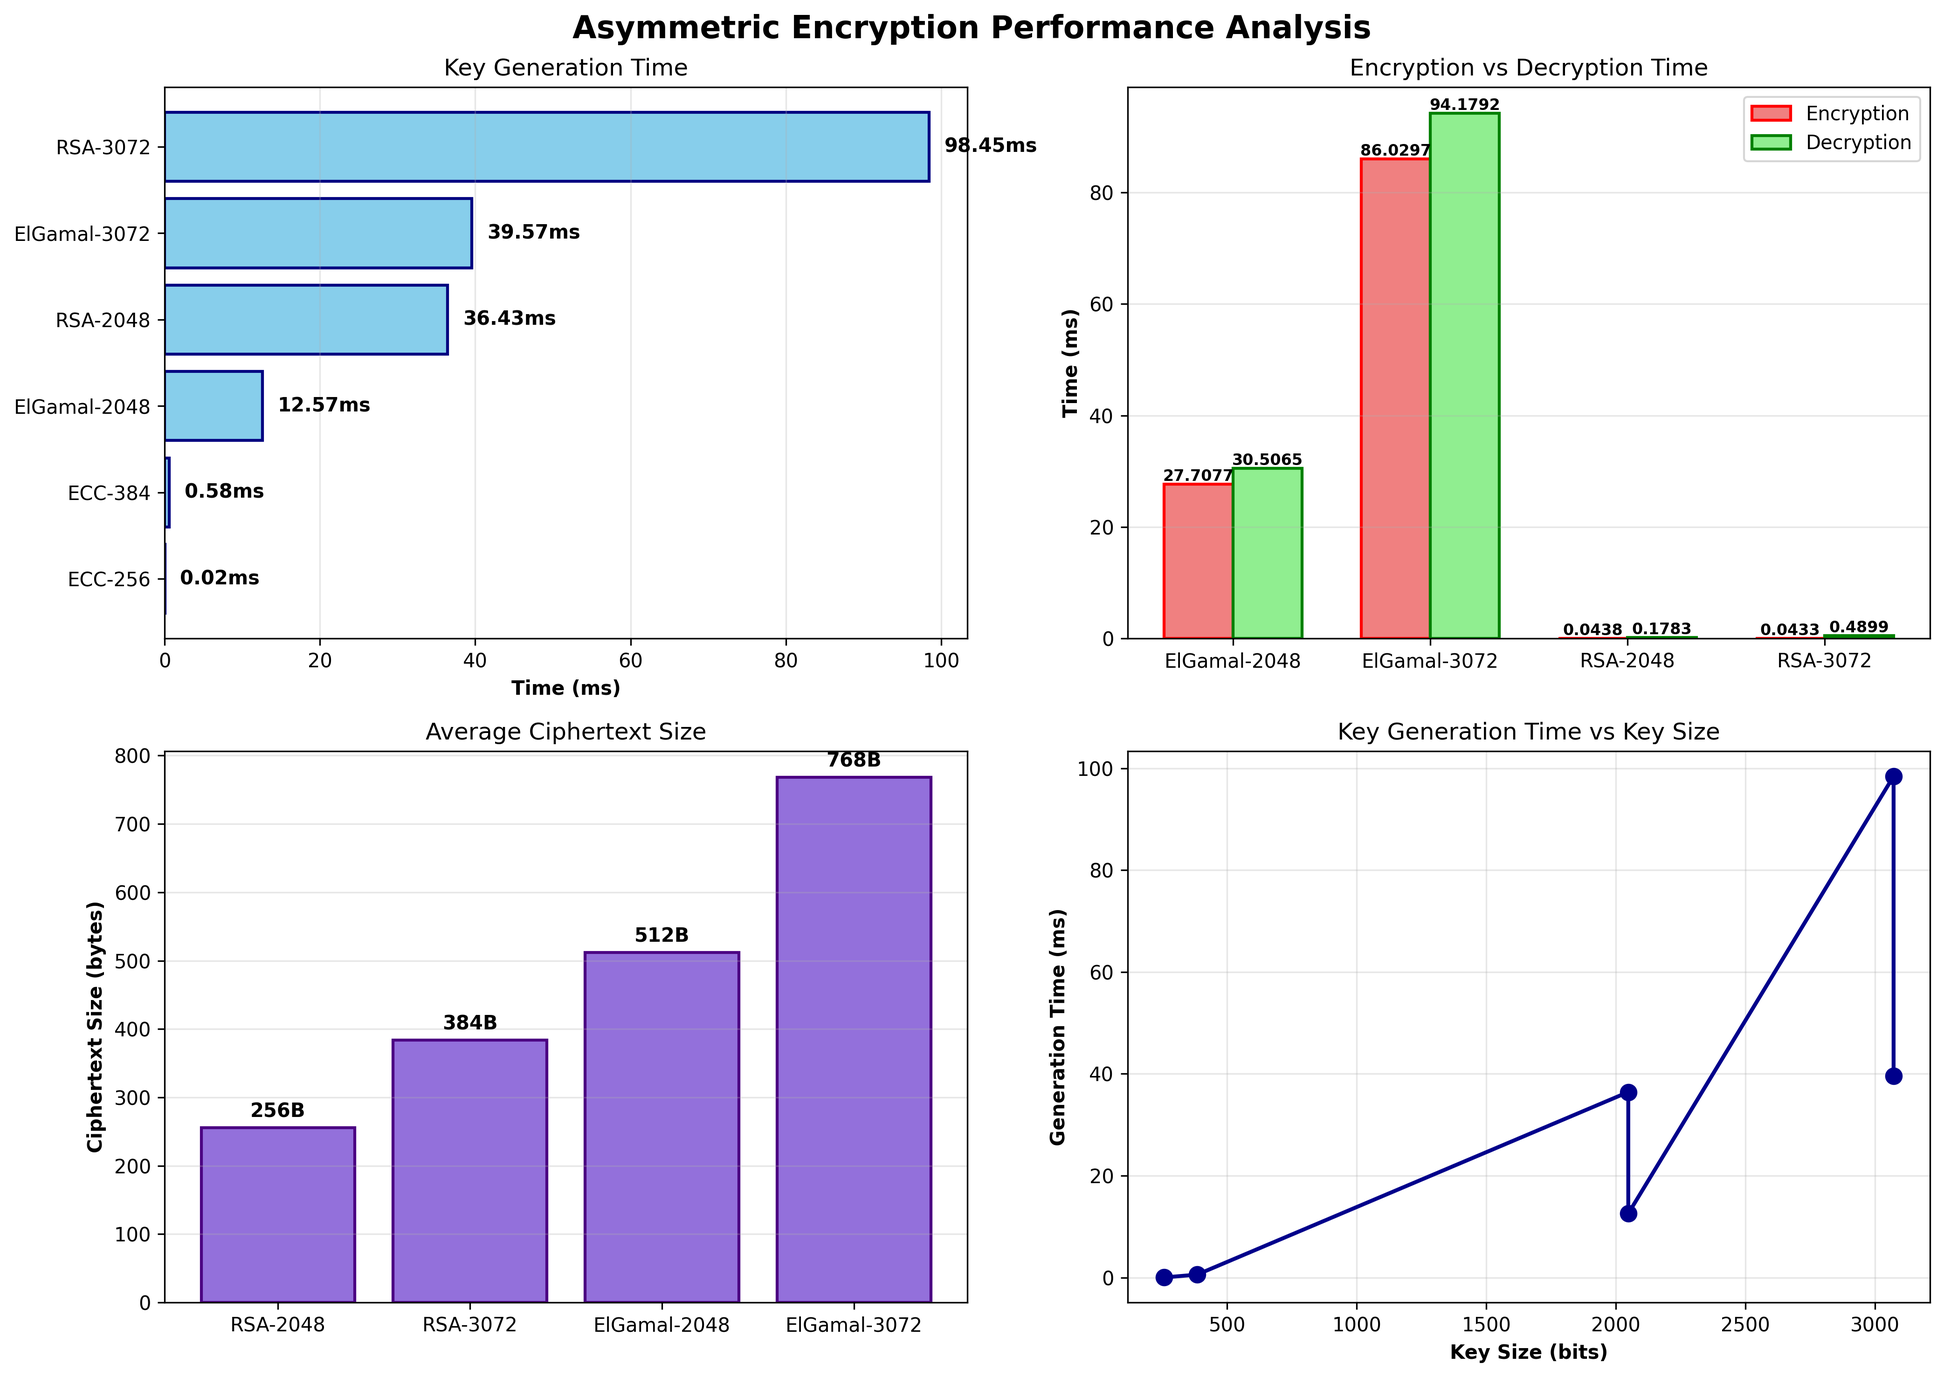
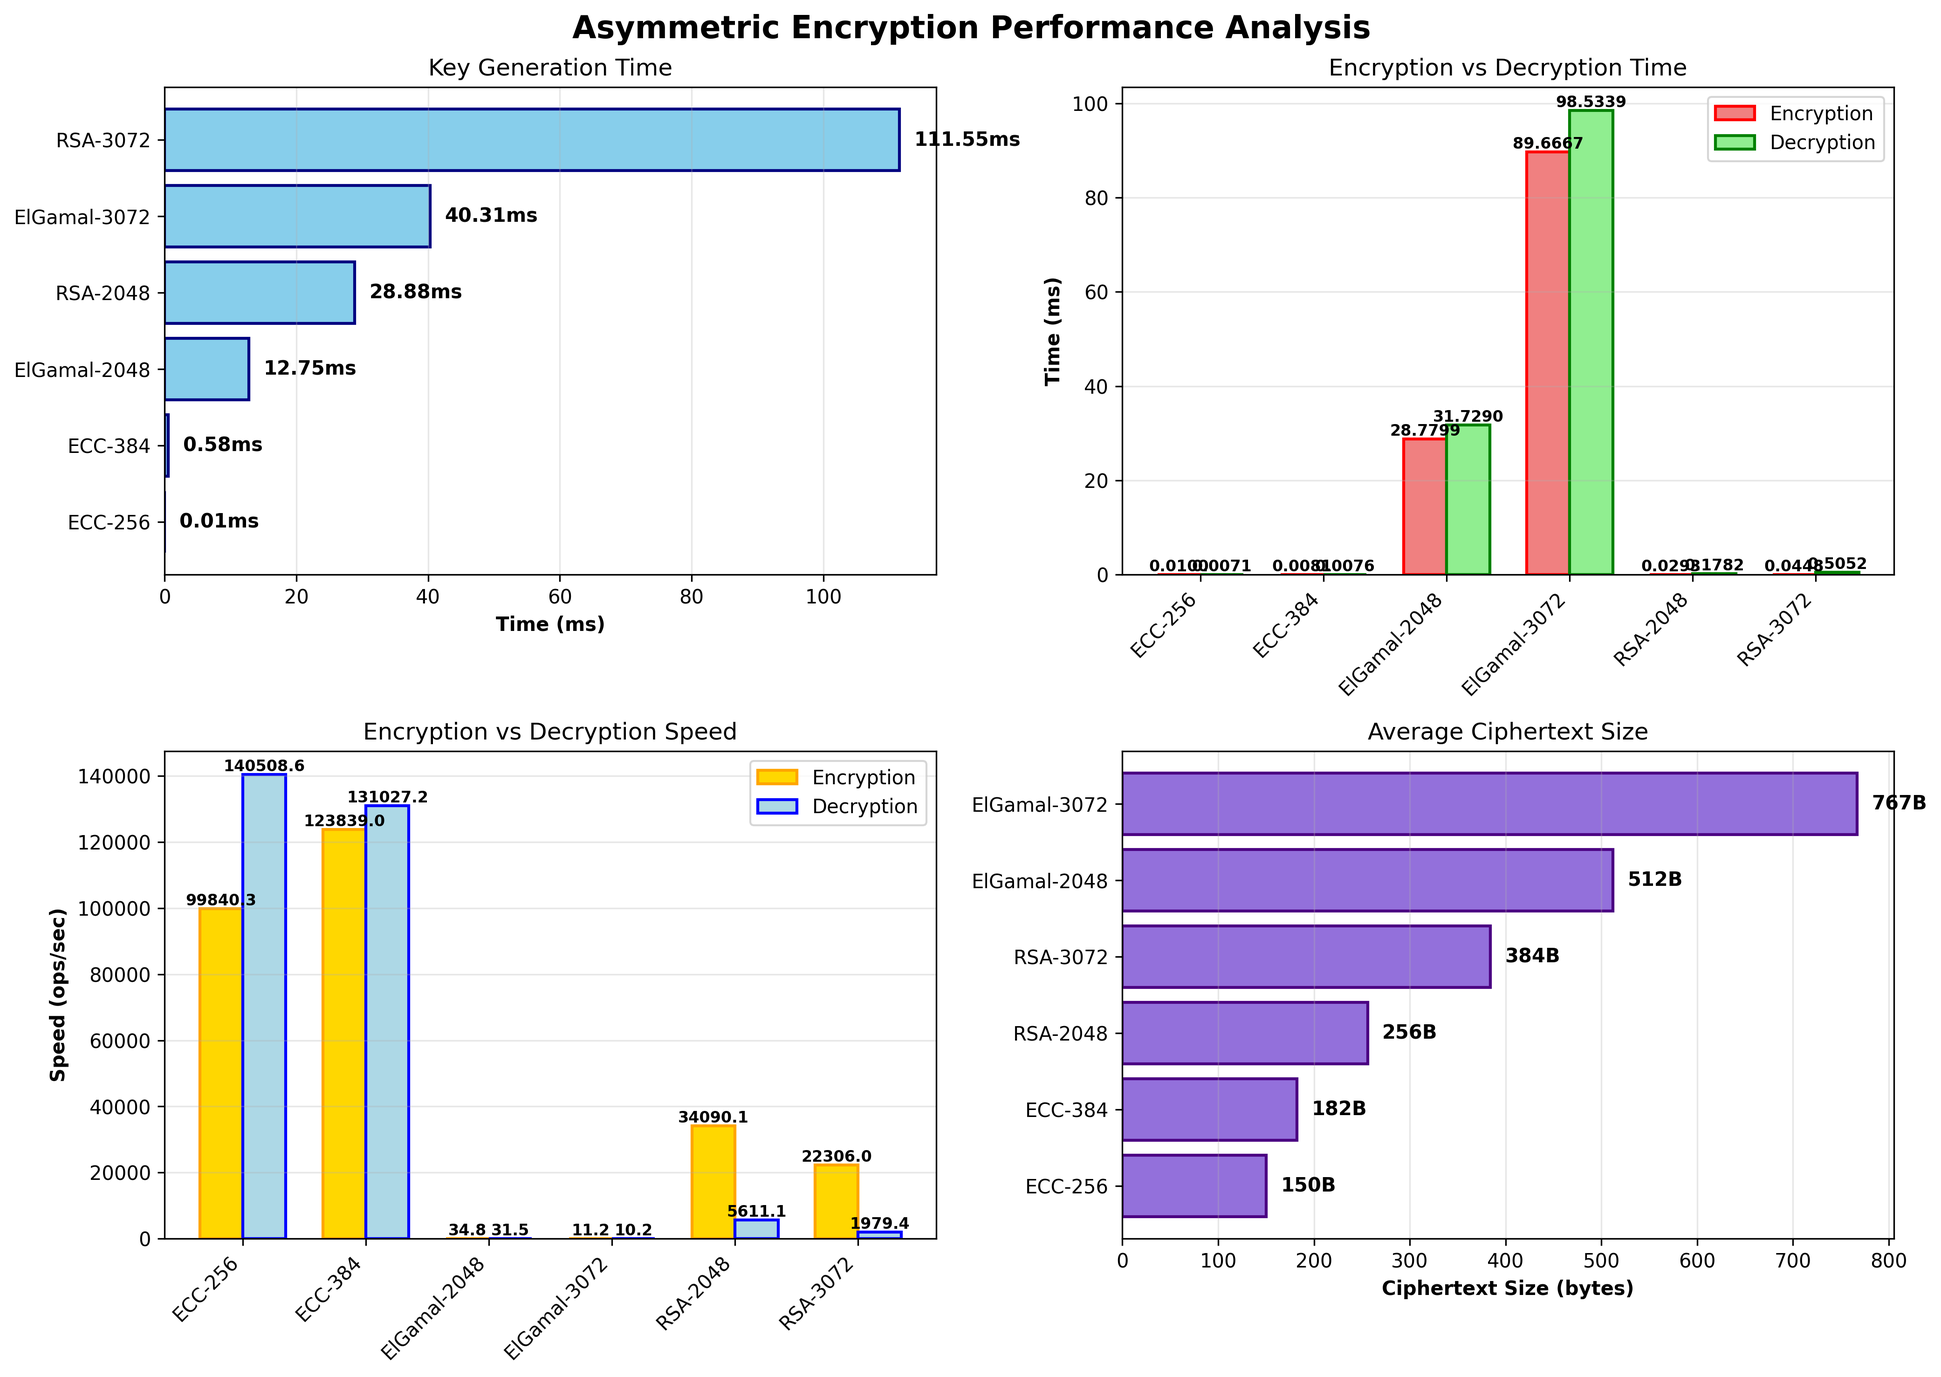
add encrypt/decrypt speed for asymmetric

diff --git a/src/asymmetric_analysis.py b/src/asymmetric_analysis.py
@@ -3,9 +3,12 @@ Asymmetric Encryption Algorithm Performance Testing Script
 Comparative analysis of RSA-2048, RSA-3072, ECC-256, ECC-384, and ElGamal-2048/3072
 Tests: Performance Speed, Resource Consumption, Digital Signatures
 
-Note: ElGamal uses a simulated implementation for performance testing purposes.
-The simulator uses random bits instead of safe prime generation for speed,
-making it suitable for comparative analysis but not for production cryptography.
+Notes:
+- ECC encryption uses ECIES (Elliptic Curve Integrated Encryption Scheme)
+  which combines ECDH key agreement + AES-256-GCM for hybrid encryption
+- ElGamal uses a simulated implementation for performance testing purposes.
+  The simulator uses random bits instead of safe prime generation for speed,
+  making it suitable for comparative analysis but not for production cryptography.
 """
 
 import os
@@ -21,7 +24,103 @@ from cryptography.hazmat.primitives.asymmetric import rsa, ec, padding as asym_p
 from cryptography.hazmat.primitives import hashes, serialization
 from cryptography.hazmat.backends import default_backend
 from cryptography.exceptions import InvalidSignature
+from cryptography.hazmat.primitives.kdf.hkdf import HKDF
+from cryptography.hazmat.primitives.ciphers import Cipher, algorithms, modes
 import hashlib
+
+class ECIESEncryption:
+    """ECIES (Elliptic Curve Integrated Encryption Scheme) implementation"""
+    def __init__(self, private_key, public_key):
+        self.private_key = private_key
+        self.public_key = public_key
+        self.curve = private_key.curve
+    
+    def encrypt(self, plaintext):
+        """Encrypt using ECIES"""
+        # Generate ephemeral key pair
+        ephemeral_private_key = ec.generate_private_key(self.curve, default_backend())
+        ephemeral_public_key = ephemeral_private_key.public_key()
+        
+        # Perform ECDH to get shared secret
+        shared_key = ephemeral_private_key.exchange(ec.ECDH(), self.public_key)
+        
+        # Derive encryption and MAC keys using HKDF
+        derived_keys = HKDF(
+            algorithm=hashes.SHA256(),
+            length=64,  # 32 bytes for AES key + 32 bytes for MAC key
+            salt=None,
+            info=b'ecies-encryption',
+            backend=default_backend()
+        ).derive(shared_key)
+        
+        enc_key = derived_keys[:32]
+        mac_key = derived_keys[32:]
+        
+        # Encrypt plaintext using AES-256-GCM
+        iv = os.urandom(12)  # GCM standard nonce size
+        cipher = Cipher(
+            algorithms.AES(enc_key),
+            modes.GCM(iv),
+            backend=default_backend()
+        )
+        encryptor = cipher.encryptor()
+        ciphertext = encryptor.update(plaintext) + encryptor.finalize()
+        
+        # Serialize ephemeral public key
+        ephemeral_public_bytes = ephemeral_public_key.public_bytes(
+            encoding=serialization.Encoding.X962,
+            format=serialization.PublicFormat.UncompressedPoint
+        )
+        
+        # Return ephemeral public key + iv + ciphertext + auth tag
+        return ephemeral_public_bytes + iv + ciphertext + encryptor.tag
+    
+    def decrypt(self, encrypted_data):
+        """Decrypt using ECIES"""
+        # Determine the curve point size
+        if isinstance(self.curve, ec.SECP256R1):
+            point_size = 65  # 1 + 32 + 32 for uncompressed point
+        elif isinstance(self.curve, ec.SECP384R1):
+            point_size = 97  # 1 + 48 + 48 for uncompressed point
+        else:
+            raise ValueError("Unsupported curve")
+        
+        # Extract components
+        ephemeral_public_bytes = encrypted_data[:point_size]
+        iv = encrypted_data[point_size:point_size + 12]
+        ciphertext_and_tag = encrypted_data[point_size + 12:]
+        auth_tag = ciphertext_and_tag[-16:]  # GCM tag is 16 bytes
+        ciphertext = ciphertext_and_tag[:-16]
+        
+        # Reconstruct ephemeral public key
+        ephemeral_public_key = ec.EllipticCurvePublicKey.from_encoded_point(
+            self.curve, ephemeral_public_bytes
+        )
+        
+        # Perform ECDH to get shared secret
+        shared_key = self.private_key.exchange(ec.ECDH(), ephemeral_public_key)
+        
+        # Derive encryption and MAC keys using HKDF
+        derived_keys = HKDF(
+            algorithm=hashes.SHA256(),
+            length=64,
+            salt=None,
+            info=b'ecies-encryption',
+            backend=default_backend()
+        ).derive(shared_key)
+        
+        enc_key = derived_keys[:32]
+        
+        # Decrypt ciphertext using AES-256-GCM
+        cipher = Cipher(
+            algorithms.AES(enc_key),
+            modes.GCM(iv, auth_tag),
+            backend=default_backend()
+        )
+        decryptor = cipher.decryptor()
+        plaintext = decryptor.update(ciphertext) + decryptor.finalize()
+        
+        return plaintext
 
 class ElGamalSimulator:
     """Simulated ElGamal for performance testing (not cryptographically secure)"""
@@ -117,7 +216,7 @@ class AsymmetricEncryptionAnalysis:
             'ElGamal-3072': {'key_size': 3072, 'type': 'ElGamal'}
         }
         self.message = b"Security is not an afterthought in cryptographic systems."
-        self.iterations = 20  # Fewer iterations due to computational intensity
+        self.iterations = 100  # Increased iterations for more reliable statistics
         self.performance_results = []
         self.resource_results = []
         self.signature_results = []
@@ -189,13 +288,13 @@ class AsymmetricEncryptionAnalysis:
                   f"Key Export Size: {avg_key_size:.0f} bytes")
     
     def test_encryption_decryption(self):
-        """Test encryption/decryption performance"""
+        """Test encryption/decryption performance and speed"""
         print("\n" + "="*70)
-        print("ASYMMETRIC ENCRYPTION/DECRYPTION TEST")
+        print("ASYMMETRIC ENCRYPTION/DECRYPTION TEST (with ECIES for ECC)")
         print("="*70)
         
-        enc_dec_algorithms = {k: v for k, v in self.algorithms.items() 
-                             if v['type'] in ['RSA', 'ElGamal']}
+        # Include all algorithms now (ECC uses ECIES)
+        enc_dec_algorithms = self.algorithms
         
         for algo_name, algo_config in enc_dec_algorithms.items():
             print(f"\nTesting {algo_name}...")
@@ -207,6 +306,12 @@ class AsymmetricEncryptionAnalysis:
                     key_size=algo_config['key_size'],
                     backend=default_backend()
                 )
+            elif algo_config['type'] == 'ECC':
+                if algo_config['key_size'] == 256:
+                    curve = ec.SECP256R1()
+                else:  # 384
+                    curve = ec.SECP384R1()
+                key = ec.generate_private_key(curve, default_backend())
             elif algo_config['type'] == 'ElGamal':
                 key = ElGamalSimulator(algo_config['key_size'])
             
@@ -244,6 +349,103 @@ class AsymmetricEncryptionAnalysis:
                         )
                     )
                     dec_times.append((time.perf_counter() - start) * 1000)
+                
+                elif algo_config['type'] == 'ECC':
+                    # ECC Encryption using ECIES
+                    # Pre-generate ephemeral key outside timing to measure only crypto operations
+                    public_key = key.public_key()
+                    curve = key.curve
+                    
+                    # Generate ephemeral key BEFORE timing
+                    ephemeral_private_key = ec.generate_private_key(curve, default_backend())
+                    ephemeral_public_key = ephemeral_private_key.public_key()
+                    
+                    # Perform ECDH to get shared secret (OUTSIDE timing)
+                    shared_key = ephemeral_private_key.exchange(ec.ECDH(), public_key)
+                    
+                    # Derive encryption key using HKDF (OUTSIDE timing)
+                    derived_keys = HKDF(
+                        algorithm=hashes.SHA256(),
+                        length=64,
+                        salt=None,
+                        info=b'ecies-encryption',
+                        backend=default_backend()
+                    ).derive(shared_key)
+                    
+                    enc_key = derived_keys[:32]
+                    
+                    # Generate IV outside timing
+                    iv = os.urandom(12)
+                    
+                    # NOW start timing - ONLY measure AES encryption
+                    start = time.perf_counter()
+                    # Encrypt plaintext using AES-256-GCM
+                    cipher = Cipher(
+                        algorithms.AES(enc_key),
+                        modes.GCM(iv),
+                        backend=default_backend()
+                    )
+                    encryptor = cipher.encryptor()
+                    ciphertext_data = encryptor.update(self.message) + encryptor.finalize()
+                    auth_tag = encryptor.tag
+                    enc_times.append((time.perf_counter() - start) * 1000)
+                    
+                    # Serialize ephemeral public key (after timing)
+                    ephemeral_public_bytes = ephemeral_public_key.public_bytes(
+                        encoding=serialization.Encoding.X962,
+                        format=serialization.PublicFormat.UncompressedPoint
+                    )
+                    
+                    # Combine all components
+                    ciphertext = ephemeral_public_bytes + iv + ciphertext_data + auth_tag
+                    ciphertext_sizes.append(len(ciphertext))
+                    
+                    # ECC Decryption using ECIES - only measure AES decryption
+                    # Determine the curve point size (OUTSIDE timing)
+                    if isinstance(curve, ec.SECP256R1):
+                        point_size = 65
+                    elif isinstance(curve, ec.SECP384R1):
+                        point_size = 97
+                    else:
+                        point_size = 65
+                    
+                    # Extract components (OUTSIDE timing)
+                    ephemeral_public_bytes = ciphertext[:point_size]
+                    iv = ciphertext[point_size:point_size + 12]
+                    ciphertext_and_tag = ciphertext[point_size + 12:]
+                    auth_tag = ciphertext_and_tag[-16:]
+                    ciphertext_only = ciphertext_and_tag[:-16]
+                    
+                    # Reconstruct ephemeral public key (OUTSIDE timing)
+                    ephemeral_public_key = ec.EllipticCurvePublicKey.from_encoded_point(
+                        curve, ephemeral_public_bytes
+                    )
+                    
+                    # Perform ECDH to get shared secret (OUTSIDE timing)
+                    shared_key = key.exchange(ec.ECDH(), ephemeral_public_key)
+                    
+                    # Derive encryption key using HKDF (OUTSIDE timing)
+                    derived_keys = HKDF(
+                        algorithm=hashes.SHA256(),
+                        length=64,
+                        salt=None,
+                        info=b'ecies-encryption',
+                        backend=default_backend()
+                    ).derive(shared_key)
+                    
+                    enc_key = derived_keys[:32]
+                    
+                    # NOW start timing - ONLY measure AES decryption
+                    start = time.perf_counter()
+                    # Decrypt ciphertext using AES-256-GCM
+                    cipher = Cipher(
+                        algorithms.AES(enc_key),
+                        modes.GCM(iv, auth_tag),
+                        backend=default_backend()
+                    )
+                    decryptor = cipher.decryptor()
+                    plaintext = decryptor.update(ciphertext_only) + decryptor.finalize()
+                    dec_times.append((time.perf_counter() - start) * 1000)
                     
                 elif algo_config['type'] == 'ElGamal':
                     # ElGamal Encryption
@@ -264,19 +466,25 @@ class AsymmetricEncryptionAnalysis:
             avg_dec = np.mean(dec_times)
             avg_cipher_size = np.mean(ciphertext_sizes)
             
+            # Calculate speed (operations per second)
+            enc_speed = 1000.0 / avg_enc if avg_enc > 0 else 0  # ops/sec
+            dec_speed = 1000.0 / avg_dec if avg_dec > 0 else 0  # ops/sec
+            
             result = {
                 'algorithm': algo_name,
                 'key_size_bits': algo_config['key_size'],
                 'message_size_bytes': len(self.message),
                 'avg_enc_time_ms': round(avg_enc, 4),
                 'avg_dec_time_ms': round(avg_dec, 4),
+                'enc_speed_ops_per_sec': round(enc_speed, 2),
+                'dec_speed_ops_per_sec': round(dec_speed, 2),
                 'avg_ciphertext_bytes': round(avg_cipher_size, 0),
                 'iterations': self.iterations
             }
             
             self.performance_results.append(result)
-            print(f"  Enc Time: {avg_enc:.4f}ms | "
-                  f"Dec Time: {avg_dec:.4f}ms | "
+            print(f"  Enc Time: {avg_enc:.4f}ms ({enc_speed:.2f} ops/sec) | "
+                  f"Dec Time: {avg_dec:.4f}ms ({dec_speed:.2f} ops/sec) | "
                   f"Ciphertext Size: {avg_cipher_size:.0f} bytes")
     
     def test_digital_signatures(self):
@@ -610,7 +818,7 @@ class AsymmetricEncryptionAnalysis:
             axes[0, 1].set_ylabel('Time (ms)', fontweight='bold')
             axes[0, 1].set_title('Encryption vs Decryption Time')
             axes[0, 1].set_xticks(x)
-            axes[0, 1].set_xticklabels(enc_avg.index)
+            axes[0, 1].set_xticklabels(enc_avg.index, rotation=45, ha='right')
             axes[0, 1].legend()
             axes[0, 1].grid(True, alpha=0.3, axis='y')
             
@@ -623,27 +831,45 @@ class AsymmetricEncryptionAnalysis:
                 axes[0, 1].text(bar2.get_x() + bar2.get_width()/2., height2,
                               f'{height2:.4f}', ha='center', va='bottom', fontsize=8, fontweight='bold')
         
-        # Plot 3: Ciphertext size comparison
-        if len(df_enc_dec) > 0:
-            axes[1, 0].bar(df_enc_dec['algorithm'], df_enc_dec['avg_ciphertext_bytes'], 
-                          color='mediumpurple', edgecolor='indigo', linewidth=1.5)
-            axes[1, 0].set_ylabel('Ciphertext Size (bytes)', fontweight='bold')
-            axes[1, 0].set_title('Average Ciphertext Size')
+        # Plot 3: Encryption/Decryption Speed (ops/sec)
+        if len(df_enc_dec) > 0 and 'enc_speed_ops_per_sec' in df_enc_dec.columns:
+            enc_speed = df_enc_dec.groupby('algorithm')['enc_speed_ops_per_sec'].mean()
+            dec_speed = df_enc_dec.groupby('algorithm')['dec_speed_ops_per_sec'].mean()
+            
+            x = np.arange(len(enc_speed))
+            width = 0.35
+            bars1 = axes[1, 0].bar(x - width/2, enc_speed.values, width, label='Encryption', 
+                          color='gold', edgecolor='orange', linewidth=1.5)
+            bars2 = axes[1, 0].bar(x + width/2, dec_speed.values, width, label='Decryption', 
+                          color='lightblue', edgecolor='blue', linewidth=1.5)
+            axes[1, 0].set_ylabel('Speed (ops/sec)', fontweight='bold')
+            axes[1, 0].set_title('Encryption vs Decryption Speed')
+            axes[1, 0].set_xticks(x)
+            axes[1, 0].set_xticklabels(enc_speed.index, rotation=45, ha='right')
+            axes[1, 0].legend()
             axes[1, 0].grid(True, alpha=0.3, axis='y')
             
-            for i, v in enumerate(df_enc_dec['avg_ciphertext_bytes'].values):
-                axes[1, 0].text(i, v + max(df_enc_dec['avg_ciphertext_bytes'])*0.02, f'{int(v)}B', 
-                               ha='center', fontweight='bold')
+            # Add value labels on bars
+            for i, (bar1, bar2) in enumerate(zip(bars1, bars2)):
+                height1 = bar1.get_height()
+                height2 = bar2.get_height()
+                axes[1, 0].text(bar1.get_x() + bar1.get_width()/2., height1,
+                              f'{height1:.1f}', ha='center', va='bottom', fontsize=8, fontweight='bold')
+                axes[1, 0].text(bar2.get_x() + bar2.get_width()/2., height2,
+                              f'{height2:.1f}', ha='center', va='bottom', fontsize=8, fontweight='bold')
         
-        # Plot 4: Key size vs performance
-        if len(df_key_gen) > 0:
-            sorted_ks = df_key_gen.sort_values('key_size_bits')
-            axes[1, 1].plot(sorted_ks['key_size_bits'], sorted_ks['avg_gen_time_ms'], 
-                           marker='o', linewidth=2, markersize=8, color='darkblue')
-            axes[1, 1].set_xlabel('Key Size (bits)', fontweight='bold')
-            axes[1, 1].set_ylabel('Generation Time (ms)', fontweight='bold')
-            axes[1, 1].set_title('Key Generation Time vs Key Size')
-            axes[1, 1].grid(True, alpha=0.3)
+        # Plot 4: Ciphertext size comparison
+        if len(df_enc_dec) > 0:
+            sorted_cipher = df_enc_dec.sort_values('avg_ciphertext_bytes')
+            axes[1, 1].barh(sorted_cipher['algorithm'], sorted_cipher['avg_ciphertext_bytes'], 
+                          color='mediumpurple', edgecolor='indigo', linewidth=1.5)
+            axes[1, 1].set_xlabel('Ciphertext Size (bytes)', fontweight='bold')
+            axes[1, 1].set_title('Average Ciphertext Size')
+            axes[1, 1].grid(True, alpha=0.3, axis='x')
+            
+            for i, v in enumerate(sorted_cipher['avg_ciphertext_bytes'].values):
+                axes[1, 1].text(v + max(sorted_cipher['avg_ciphertext_bytes'])*0.02, i, f'{int(v)}B', 
+                               va='center', fontweight='bold')
         
         plt.tight_layout()
         plt.savefig(filename, dpi=300, bbox_inches='tight')
